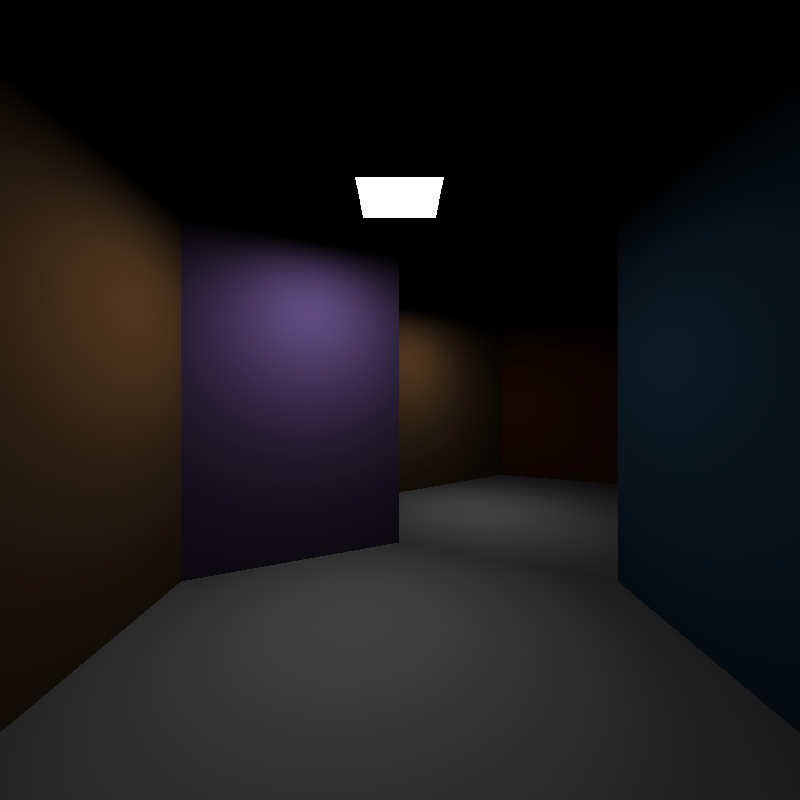
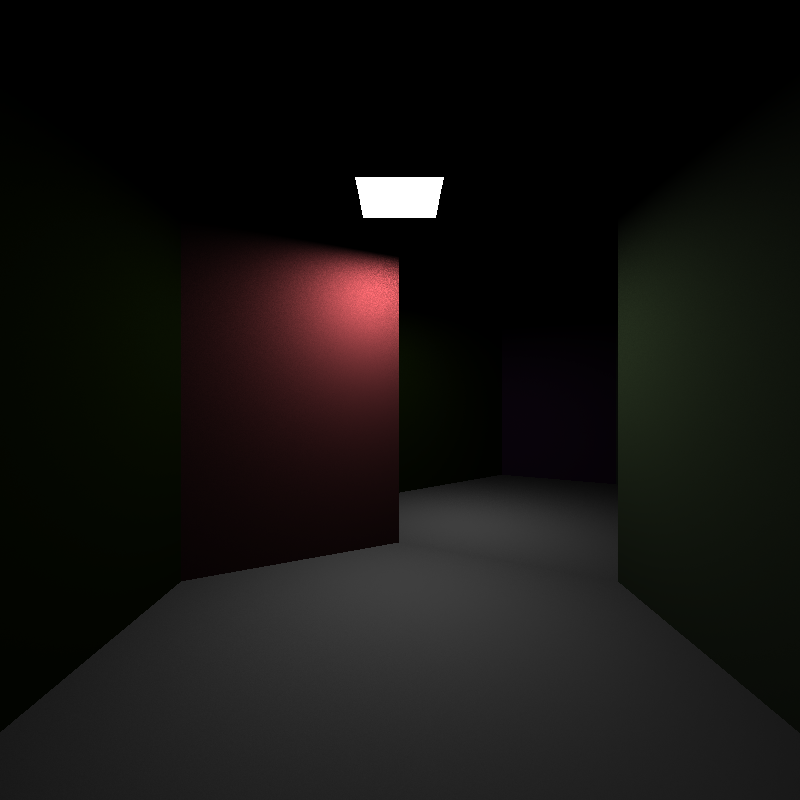
Correction of random point generator of the source light object, added ColorRGB feature to handle overshot in color space, Fixed error correlating to calculating normals of the triangle objects

Changed region(s): [[0.0, 0.1562, 0.5938, 0.7188], [0.75, 0.4062, 0.7812, 0.4375]]

diff --git a/geometry/Triangle.java b/geometry/Triangle.java
@@ -32,7 +32,7 @@ public class Triangle extends Geometry {
     this.v1 = V1;
     this.v2 = V2;
     this.v3 = V3;
-    normal = Maths.crossProduct(v1.CreateEdge(v2), v3.CreateEdge(v2)).norm();
+    normal = Maths.crossProduct(v3.CreateEdge(v2), v1.CreateEdge(v2)).norm();
   }
 
   public Triangle(
@@ -47,7 +47,7 @@ public class Triangle extends Geometry {
     this.v2 = V2;
     this.v3 = V3;
     this.SetColor(r, g, b);
-    normal = Maths.crossProduct(v1.CreateEdge(v2), v3.CreateEdge(v2)).norm();
+    normal = Maths.crossProduct(v3.CreateEdge(v2), v1.CreateEdge(v2)).norm();
   }
 
   public Vertex getVertex0() {
@@ -100,55 +100,4 @@ public class Triangle extends Geometry {
         return false;
     }
 
-     @Override
-    public ColorRGB calculateDirectLight(Light LightSource, Vertex pointOFIntersection) {
-        int shadowRays = 30;
-        // var q = u * ( v1 - v0) + v * (v2 - v0);
-
-        ColorRGB L = new ColorRGB(0, 0, 0);
-        ColorRGB Ld = new ColorRGB(0, 0, 0);
-
-        Vector3d edge1 = LightSource.v2.CreateEdge(LightSource.v1);
-        Vector3d edge2 = LightSource.v3.CreateEdge(LightSource.v1);
-
-        // float A = glm::length(glm::cross(v1 - v0, v3 - v0));
-        double LightArea = Maths.crossProduct(edge1, edge2).vectorLength();
-
-        for (int i = 0; i < shadowRays; i++) {
-            // random numbers
-            double u = new Random().nextDouble();
-            double v = new Random().nextDouble();
-
-            // edges of the lightsource
-            Vector3d e1 = LightSource.v2.CreateEdge(LightSource.v1).Multiply(u);
-            Vector3d e2 = LightSource.v3.CreateEdge(LightSource.v1).Multiply(v);
-            Vector3d q = e1.add(e2);
-
-            // float A = glm::length(glm::cross(v1 - v0, v3 - v0));
-
-            // Disnans mellan intersection point och ljuskällan
-            // sk är vectorn mellan ljus och puntk
-            // di är distansen mellan di = yi - x
-
-            Vector3d di = LightSource.v1.CreateEdge(pointOFIntersection);
-            double abs_di = di.vectorLength();
-
-            // eventuellt "-" på sk
-            // cos(omegax) = Nx * di / ||di||
-            // cos(omegay) = Ny * di / ||di||
-            // TODO - fixa normal för triangel
-            double cosOmegax = Maths.dotProduct(di.invers().Multiply(1 / abs_di), this.normal);
-            double cosOmegay = Maths.dotProduct(di.invers().Multiply(1 / abs_di), LightSource.normal);
-
-            L = L.add(this.color.mult((cosOmegax * cosOmegay) / (abs_di * abs_di)));
-
-        }
-
-        Ld = L.mult(LightArea / (Math.PI *shadowRays));
-
-        // if (!this->isVisible(shadowRay)) Vk = 0.0f;
-        // else Vk = 1.0f;
-
-        return Ld.mult(20);
-    }
-}
+  }

diff --git a/geometry/Geometry.java b/geometry/Geometry.java
@@ -1,5 +1,7 @@
 package geometry;
 
+import java.util.Random;
+
 import utils.*;
 
 public class Geometry {
@@ -43,8 +45,59 @@ public class Geometry {
     return false;
   }
 
-  public ColorRGB calculateDirectLight(Light LightSource, Vertex pointOFIntersection){
-    System.out.println("Something went wrong: calculateDirectLight not overriden");
-    return new ColorRGB();
-  }
+  public ColorRGB calculateDirectLight(Light LightSource, Vertex pointOFIntersection) {
+    int shadowRays = 60;
+    // var q = u * ( v1 - v0) + v * (v2 - v0);
+
+    ColorRGB L = new ColorRGB(0, 0, 0);
+    ColorRGB Ld = new ColorRGB(0, 0, 0);
+
+    Vector3d edge1 = LightSource.v2.CreateEdge(LightSource.v1);
+    Vector3d edge2 = LightSource.v3.CreateEdge(LightSource.v1);
+
+    // float A = glm::length(glm::cross(v1 - v0, v3 - v0));
+    double LightArea = Maths.crossProduct(edge1, edge2).vectorLength();
+
+    for (int i = 0; i < shadowRays; i++) {
+        // random numbers
+        double u = new Random().nextDouble();
+        double v = new Random().nextDouble();
+
+        // edges of the lightsource
+        Vector3d e1 = LightSource.v2.CreateEdge(LightSource.v1).Multiply(u);
+        Vector3d e2 = LightSource.v3.CreateEdge(LightSource.v1).Multiply(v);
+        Vector3d summedVector = e1.add(e2);
+        Vertex yi = LightSource.v1.translate(summedVector);
+
+        // float A = glm::length(glm::cross(v1 - v0, v3 - v0));
+
+        // Disnans mellan intersection point och ljuskällan
+        // sk är vectorn mellan ljus och puntk
+        // di är distansen mellan di = yi - x
+
+        Vector3d di = yi.CreateEdge(pointOFIntersection);
+        double abs_di = di.vectorLength();
+
+        // eventuellt "-" på sk
+        // cos(omegax) = Nx * di / ||di||
+        // cos(omegay) = Ny * di / ||di||
+        // TODO - fixa normal för triangel
+        double cosOmegax = Maths.dotProduct(di.Multiply(1 / abs_di), this.getNormal());
+        double cosOmegay = Maths.dotProduct(di.invers().Multiply(1 / abs_di), LightSource.normal);
+
+        L = L.add(this.color.mult((cosOmegax * cosOmegay) / (abs_di * abs_di)));
+
+    }
+
+    Ld = L.mult(LightArea / (Math.PI *shadowRays));
+
+    // if (!this->isVisible(shadowRay)) Vk = 0.0f;
+    // else Vk = 1.0f;
+
+    return Ld.mult(20);
 }
+}
+
+
+
+

diff --git a/geometry/Rectangle.java b/geometry/Rectangle.java
@@ -95,55 +95,5 @@ public class Rectangle extends Geometry {
         return false;
     }
 
-    @Override
-    public ColorRGB calculateDirectLight(Light LightSource, Vertex pointOFIntersection) {
-        int shadowRays = 30;
-        // var q = u * ( v1 - v0) + v * (v2 - v0);
-
-        ColorRGB L = new ColorRGB(0, 0, 0);
-        ColorRGB Ld = new ColorRGB(0, 0, 0);
-
-        Vector3d edge1 = LightSource.v2.CreateEdge(LightSource.v1);
-        Vector3d edge2 = LightSource.v3.CreateEdge(LightSource.v1);
-
-        // float A = glm::length(glm::cross(v1 - v0, v3 - v0));
-        double LightArea = Maths.crossProduct(edge1, edge2).vectorLength();
-
-        for (int i = 0; i < shadowRays; i++) {
-            // random numbers
-            double u = new Random().nextDouble();
-            double v = new Random().nextDouble();
-
-            // edges of the lightsource
-            Vector3d e1 = LightSource.v2.CreateEdge(LightSource.v1).Multiply(u);
-            Vector3d e2 = LightSource.v3.CreateEdge(LightSource.v1).Multiply(v);
-            Vector3d q = e1.add(e2);
-
-            // float A = glm::length(glm::cross(v1 - v0, v3 - v0));
-
-            // Disnans mellan intersection point och ljuskällan
-            // sk är vectorn mellan ljus och puntk
-            // di är distansen mellan di = yi - x
-
-            Vector3d di = LightSource.v1.CreateEdge(pointOFIntersection);
-            double abs_di = di.vectorLength();
-
-            // eventuellt "-" på sk
-            // cos(omegax) = Nx * di / ||di||
-            // cos(omegay) = Ny * di / ||di||
-            double cosOmegax = Maths.dotProduct(di.Multiply(1 / abs_di), this.normal);
-            double cosOmegay = Maths.dotProduct(di.invers().Multiply(1 / abs_di), LightSource.normal);
-
-            L = L.add(this.color.mult((cosOmegax * cosOmegay) / (abs_di * abs_di)));
-
-        }
-
-        Ld = L.mult(LightArea / (Math.PI *shadowRays));
-
-        // if (!this->isVisible(shadowRay)) Vk = 0.0f;
-        // else Vk = 1.0f;
-
-        //mult för att direct light ska bli synligt
-        return Ld.mult(20);
-    }
+   
 }

diff --git a/scene/Camera.java b/scene/Camera.java
@@ -4,6 +4,8 @@ import geometry.*;
 import java.awt.Color;
 import java.awt.image.BufferedImage;
 import java.io.File;
+import java.util.ArrayList;
+
 import javax.imageio.ImageIO;
 import utils.*;
 
@@ -11,7 +13,7 @@ public class Camera {
 
   Vertex eyePosition = new Vertex(-1, 0.0, 0);
   double dist2Display;
-  int[][] pixelGrid;
+  ArrayList<ColorRGB> pixelGrid;
   Vertex planeCenter = new Vertex(0, 0, 0);
 
   /*
@@ -47,11 +49,11 @@ public class Camera {
   public Camera() {
     height = 800;
     width = 800;
-    pixelGrid = new int[height][width];
+    pixelGrid = new ArrayList<ColorRGB>(height*width);
   }
 
   public Camera(int height, int width) {
-    pixelGrid = new int[height][width];
+    pixelGrid = new ArrayList<ColorRGB>(height*width);
   }
 
   public void followRay(Scene scene, Vertex currentPoint, Ray currentRay, Vertex outIntersectionPoint){
@@ -136,7 +138,9 @@ public class Camera {
         pixelColor = currentRay.rayColor;
 
         pixelColor.intColor();
+        
         Color myColour = new Color(pixelColor.ir, pixelColor.ig, pixelColor.ib);
+        pixelGrid.add(pixelColor);
         int rgb = myColour.getRGB();
         buffer.setRGB(
           (width - 1) - (x + width / 2),
@@ -162,6 +166,10 @@ public class Camera {
       System.exit(1);
     }
   }
+
+  
+
+  
   // sudo för render
   /*
    * for (heigt)

diff --git a/utils/ColorRGB.java b/utils/ColorRGB.java
@@ -22,6 +22,26 @@ public class ColorRGB {
     ir = (int) (r*255);
     ig = (int) (g*255);
     ib = (int) (b*255);
+
+    if (ir > 255){
+      ir = 255;
+    }
+    if (ig > 255){
+      ig = 255;
+    }
+    if (ib > 255){
+      ib = 255;
+    }
+    if (ir <0){
+      ir = 0;
+    }
+    if (ig < 0){
+      ig = 0;
+    }
+    if (ib < 0){
+      ib = 0;
+    }
+
   }
 
   public void set(double r, double g, double b) {

diff --git a/utils/Vertex.java b/utils/Vertex.java
@@ -57,6 +57,16 @@ public class Vertex {
     );
   }
 
+  public Vertex translate(Vector3d edge){
+    return new Vertex(
+    this.x + edge.x,
+    this.y + edge.y,
+    this.z + edge.z
+    );
+
+
+  }
+
   // takes to a vertex and returns the vector of the edge drawn between them
   public Vector3d CreateEdge(Vertex otherVertex) {
     return new Vector3d(

diff --git a/utils/Vector3d.java b/utils/Vector3d.java
@@ -56,4 +56,6 @@ public class Vector3d {
     );
     return new Vector3d(this.x / length, this.y / length, this.z / length);
   }
+
+ 
 }
